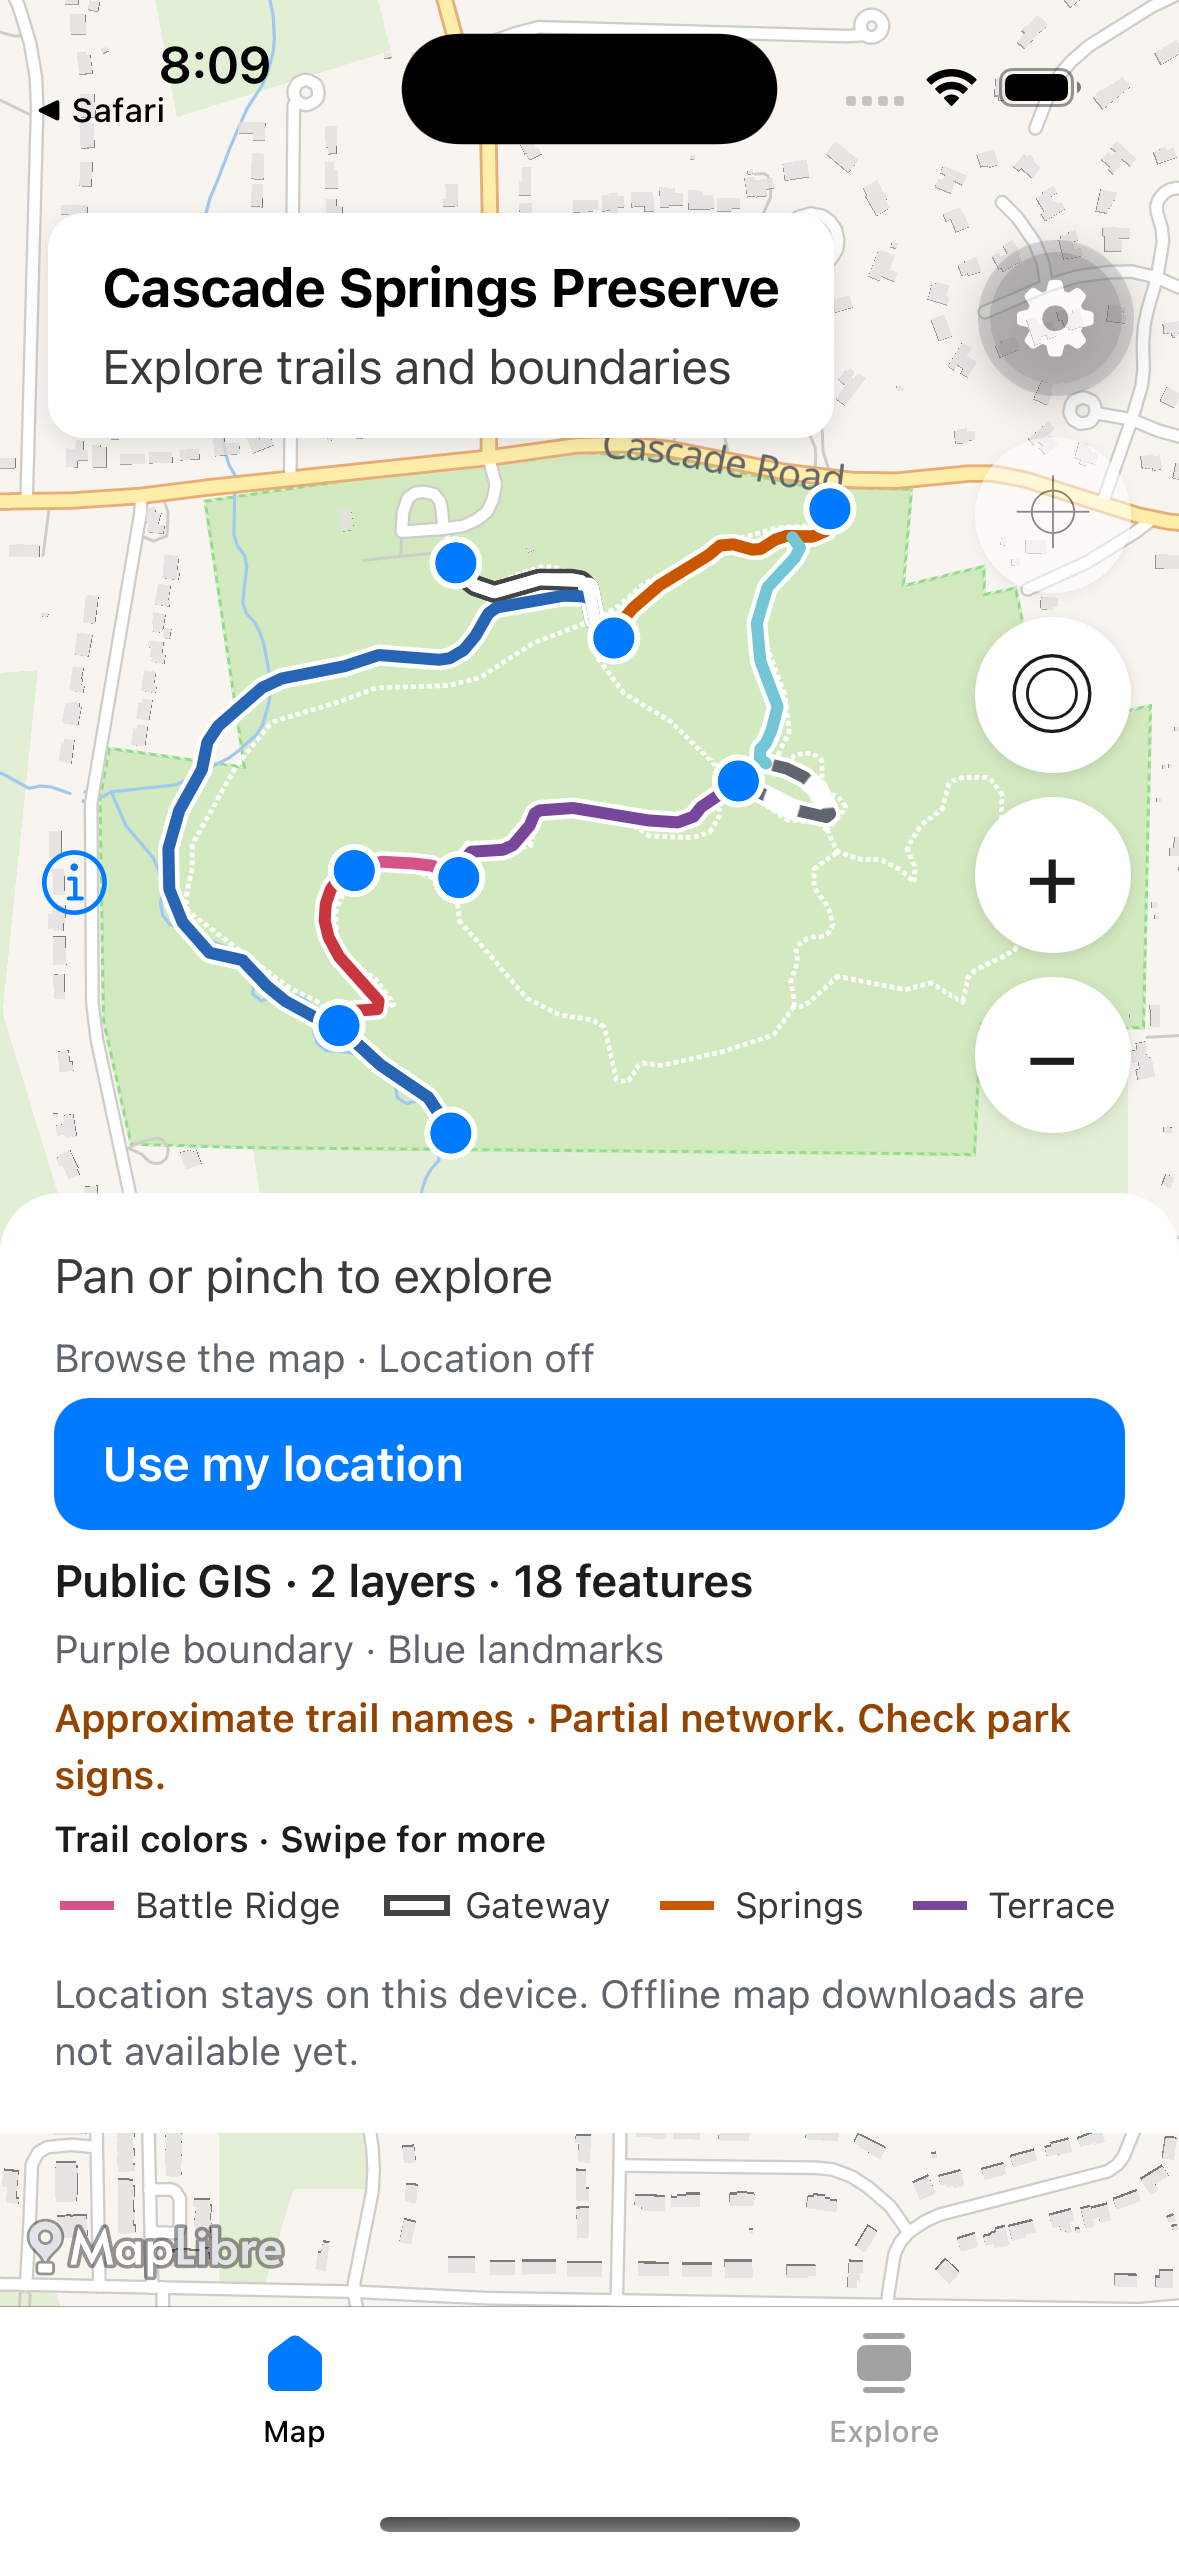
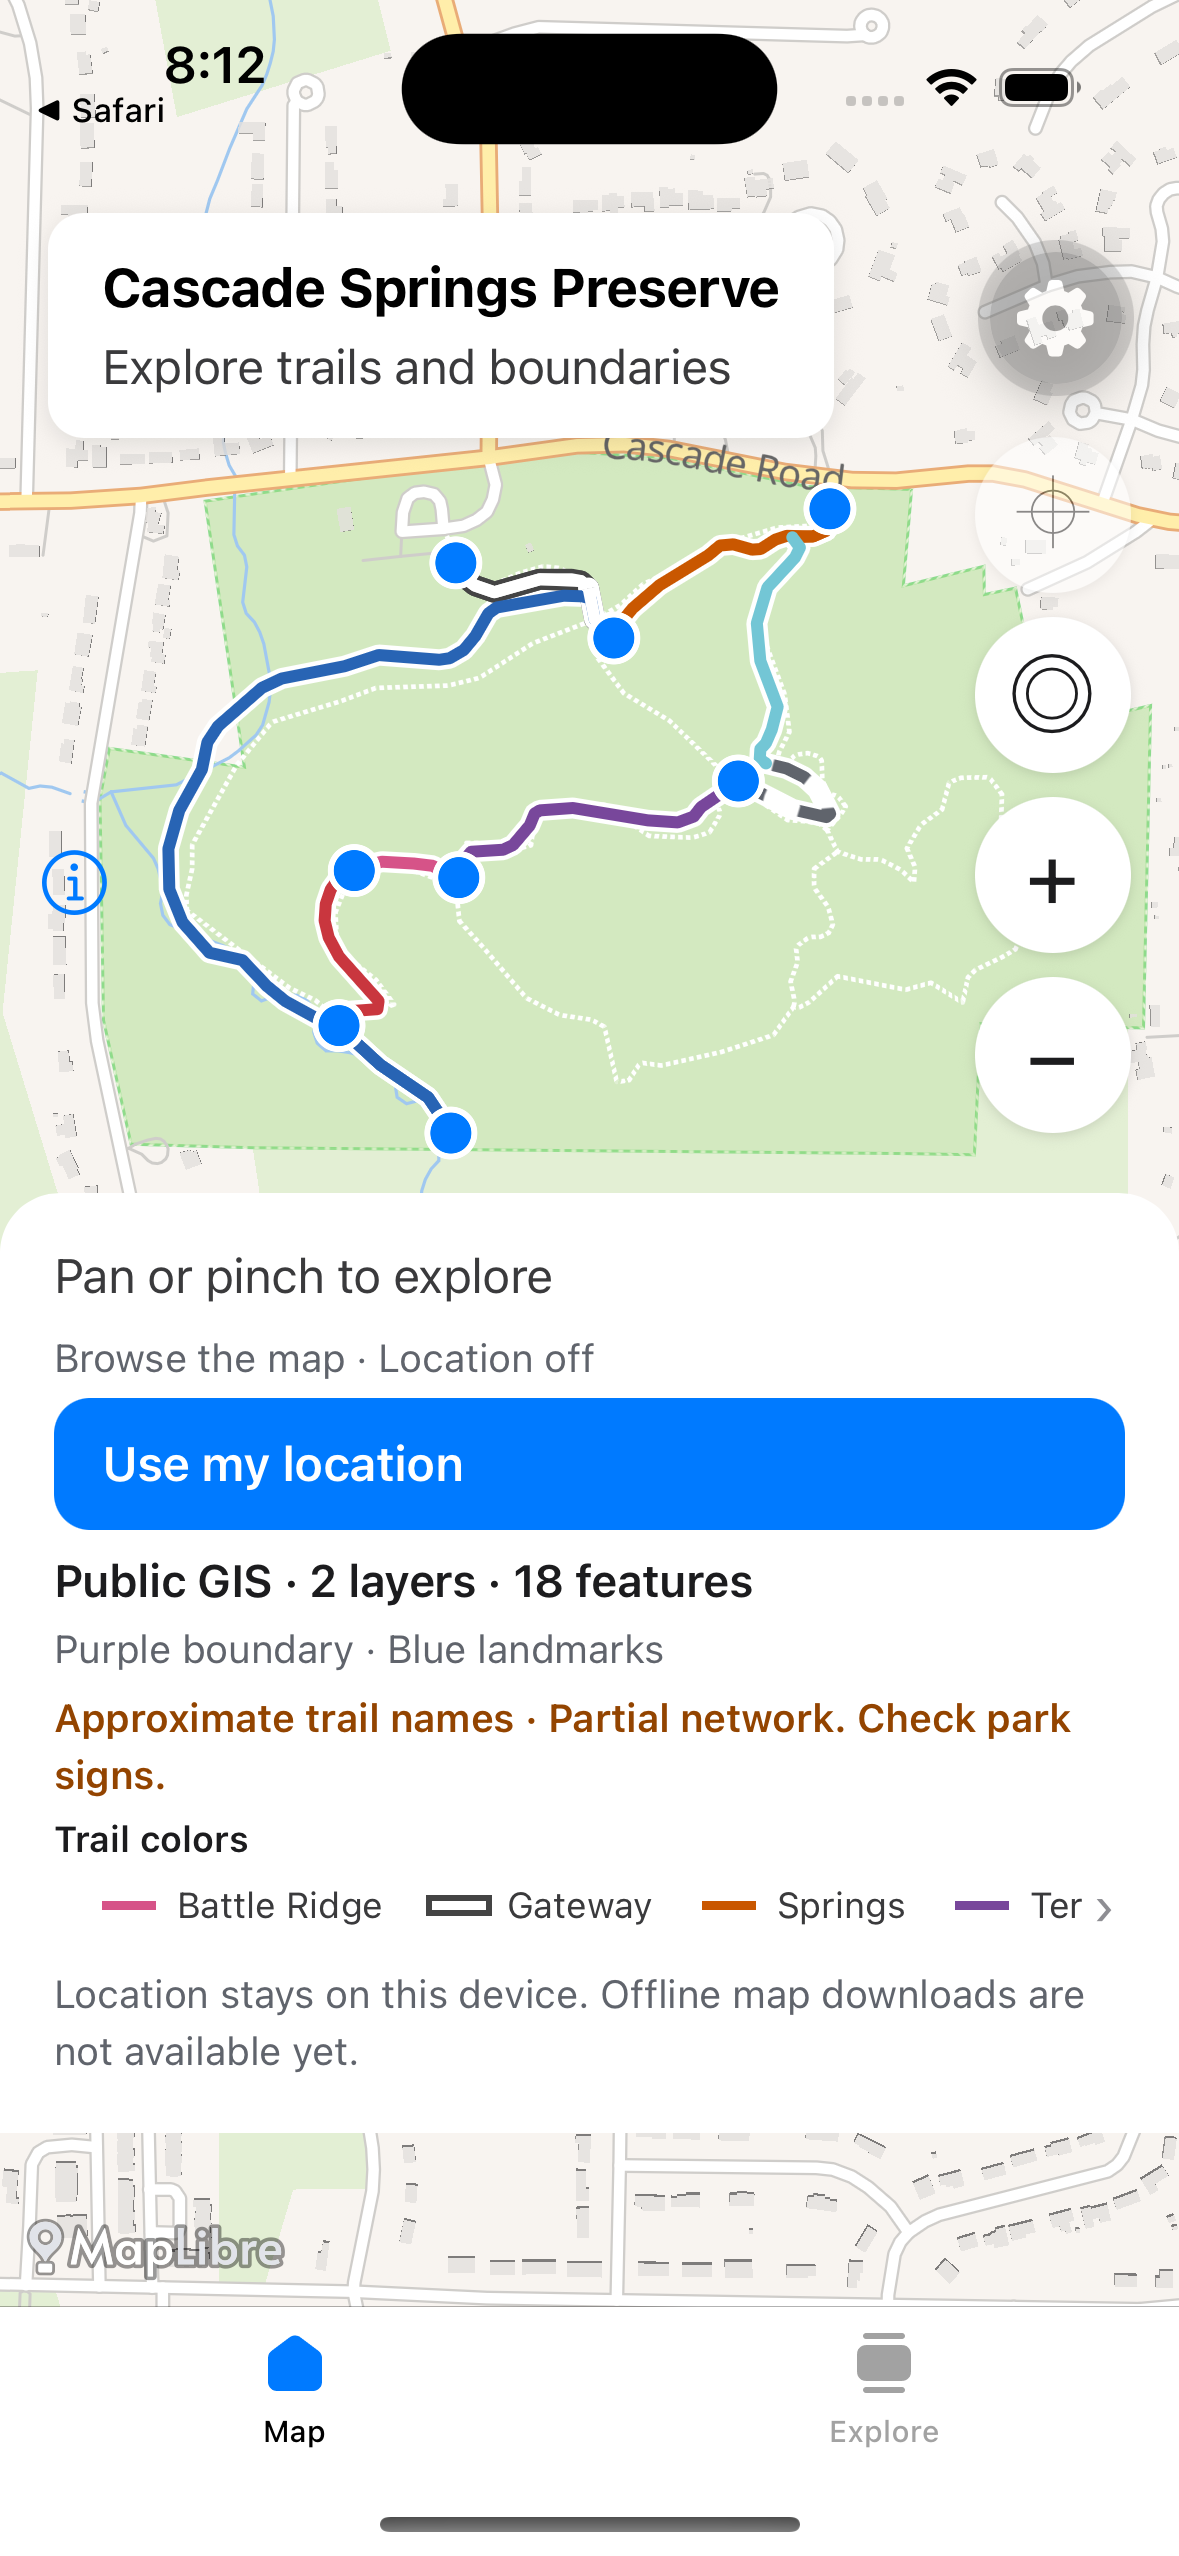
Use subtle edge cues for the scrolling trail key

diff --git a/mobile/src/components/trail-legend.tsx b/mobile/src/components/trail-legend.tsx
@@ -1,41 +1,75 @@
+import { useState } from 'react';
 import { ScrollView, StyleSheet, Text, View } from 'react-native';
 
 import type { TrailLegendEntry } from '@/data/trail-presentation';
 
 export function TrailLegend({ entries }: { entries: TrailLegendEntry[] }) {
+  const [scroll, setScroll] = useState({ width: 0, content: 0, offset: 0 });
+  const hasPrevious = scroll.offset > 1;
+  const hasMore = scroll.content - scroll.width - scroll.offset > 1;
   if (entries.length === 0) return null;
   return (
     <View style={styles.container}>
-      <Text style={styles.title}>Trail colors · Swipe for more</Text>
-      <ScrollView
-        horizontal
-        style={styles.list}
-        contentContainerStyle={styles.rows}
-        showsHorizontalScrollIndicator={false}
-      >
-        {entries.map((entry) => (
-          <View
-            key={entry.id}
-            accessible
-            accessibilityLabel={`${entry.name}: ${entry.colorName}`}
-            style={styles.row}
-          >
+      <Text style={styles.title}>Trail colors</Text>
+      <View style={styles.strip}>
+        <ScrollView
+          horizontal
+          testID="trail-color-strip"
+          accessibilityHint="Scroll horizontally for more trail colors"
+          style={styles.list}
+          contentContainerStyle={styles.rows}
+          showsHorizontalScrollIndicator={false}
+          onLayout={(event) => {
+            const width = event.nativeEvent.layout.width;
+            setScroll((value) => ({ ...value, width }));
+          }}
+          onContentSizeChange={(content) => setScroll((value) => ({ ...value, content }))}
+          onScroll={(event) => {
+            const offset = event.nativeEvent.contentOffset.x;
+            setScroll((value) => ({ ...value, offset }));
+          }}
+          scrollEventThrottle={32}
+        >
+          {entries.map((entry) => (
             <View
-              accessibilityElementsHidden
-              importantForAccessibility="no-hide-descendants"
-              style={[styles.casing, { backgroundColor: entry.casing }]}
+              key={entry.id}
+              accessible
+              accessibilityLabel={`${entry.name}: ${entry.colorName}`}
+              style={styles.row}
             >
               <View
-                style={[
-                  styles.swatch,
-                  { borderColor: entry.color, borderStyle: entry.dashed ? 'dashed' : 'solid' },
-                ]}
-              />
+                accessibilityElementsHidden
+                importantForAccessibility="no-hide-descendants"
+                style={[styles.casing, { backgroundColor: entry.casing }]}
+              >
+                <View
+                  style={[
+                    styles.swatch,
+                    { borderColor: entry.color, borderStyle: entry.dashed ? 'dashed' : 'solid' },
+                  ]}
+                />
+              </View>
+              <Text style={styles.label}>{entry.name.replace(/ Trails?$/, '')}</Text>
             </View>
-            <Text style={styles.label}>{entry.name.replace(/ Trails?$/, '')}</Text>
-          </View>
-        ))}
-      </ScrollView>
+          ))}
+        </ScrollView>
+        {hasPrevious && <ScrollCue direction="left" />}
+        {hasMore && <ScrollCue direction="right" />}
+      </View>
+    </View>
+  );
+}
+
+function ScrollCue({ direction }: { direction: 'left' | 'right' }) {
+  return (
+    <View
+      testID={`trail-key-${direction}-cue`}
+      pointerEvents="none"
+      accessibilityElementsHidden
+      importantForAccessibility="no-hide-descendants"
+      style={[styles.cue, direction === 'left' ? styles.leftCue : styles.rightCue]}
+    >
+      <Text style={styles.chevron}>{direction === 'left' ? '‹' : '›'}</Text>
     </View>
   );
 }
@@ -43,10 +77,23 @@ export function TrailLegend({ entries }: { entries: TrailLegendEntry[] }) {
 const styles = StyleSheet.create({
   container: { gap: 2 },
   title: { fontSize: 12, lineHeight: 16, fontWeight: '600', color: '#1c1c1e' },
+  strip: { position: 'relative' },
   list: { flexGrow: 0 },
-  rows: { gap: 14, paddingVertical: 4 },
+  rows: { gap: 14, paddingVertical: 4, paddingHorizontal: 14 },
   row: { flexDirection: 'row', alignItems: 'center', gap: 5 },
   casing: { width: 22, height: 7, justifyContent: 'center', paddingHorizontal: 2 },
   swatch: { borderTopWidth: 3, width: 18 },
   label: { fontSize: 12, lineHeight: 16, color: '#3a3a3c' },
+  cue: {
+    position: 'absolute',
+    top: 0,
+    bottom: 0,
+    width: 14,
+    backgroundColor: '#fff',
+    justifyContent: 'center',
+    alignItems: 'center',
+  },
+  leftCue: { left: 0 },
+  rightCue: { right: 0 },
+  chevron: { fontSize: 18, lineHeight: 22, color: '#8e8e93' },
 });

diff --git a/mobile/__tests__/trail-legend.test.tsx b/mobile/__tests__/trail-legend.test.tsx
@@ -1,0 +1,54 @@
+import { fireEvent, render, screen } from '@testing-library/react-native';
+
+import { TrailLegend } from '@/components/trail-legend';
+
+test('edge cues follow overflow and scroll position without visible swipe instructions', async () => {
+  await render(
+    <TrailLegend
+      entries={[
+        {
+          id: 'gateway',
+          name: 'Gateway Trail',
+          colorName: 'White',
+          color: '#FFFFFF',
+          casing: '#444444',
+          dashed: false,
+        },
+      ]}
+    />,
+  );
+  const strip = screen.getByTestId('trail-color-strip');
+  await fireEvent(strip, 'layout', { nativeEvent: { layout: { width: 200 } } });
+  await fireEvent(strip, 'contentSizeChange', 100, 24);
+  expect(
+    screen.queryByTestId('trail-key-right-cue', { includeHiddenElements: true }),
+  ).not.toBeOnTheScreen();
+  expect(
+    screen.queryByTestId('trail-key-left-cue', { includeHiddenElements: true }),
+  ).not.toBeOnTheScreen();
+  expect(screen.getByText('Trail colors')).toBeOnTheScreen();
+  expect(screen.queryByText(/Swipe for more/)).not.toBeOnTheScreen();
+  expect(screen.getByLabelText('Gateway Trail: White')).toBeOnTheScreen();
+
+  await fireEvent(strip, 'contentSizeChange', 500, 24);
+  expect(
+    screen.getByTestId('trail-key-right-cue', { includeHiddenElements: true }),
+  ).toBeOnTheScreen();
+  expect(
+    screen.queryByTestId('trail-key-left-cue', { includeHiddenElements: true }),
+  ).not.toBeOnTheScreen();
+  await fireEvent.scroll(strip, { nativeEvent: { contentOffset: { x: 100, y: 0 } } });
+  expect(
+    screen.getByTestId('trail-key-left-cue', { includeHiddenElements: true }),
+  ).toBeOnTheScreen();
+  expect(
+    screen.getByTestId('trail-key-right-cue', { includeHiddenElements: true }),
+  ).toBeOnTheScreen();
+  await fireEvent.scroll(strip, { nativeEvent: { contentOffset: { x: 300, y: 0 } } });
+  expect(
+    screen.getByTestId('trail-key-left-cue', { includeHiddenElements: true }),
+  ).toBeOnTheScreen();
+  expect(
+    screen.queryByTestId('trail-key-right-cue', { includeHiddenElements: true }),
+  ).not.toBeOnTheScreen();
+});

diff --git a/mobile/__tests__/preserve-map.test.tsx b/mobile/__tests__/preserve-map.test.tsx
@@ -142,7 +142,7 @@ test('legend updates with loaded routes, deduplicates sections, and disappears f
       snapshot: { ...snapshot, collection: { type: 'FeatureCollection', features: [] } },
     });
     await view.rerender(<PreserveMap />);
-    expect(screen.queryByText('Trail colors · Swipe for more')).not.toBeOnTheScreen();
+    expect(screen.queryByText('Trail colors')).not.toBeOnTheScreen();
   } finally {
     gis.mockRestore();
   }

diff --git a/docs/design/ui-spec.md b/docs/design/ui-spec.md
@@ -107,6 +107,8 @@ and the approximate-name notice remain visible under the existing collision rule
 The GIS panel replaces the fixed orange-trails description with a compact,
 horizontally scrollable strip. Smaller swatches and labels omit the repeated
 “Trail” suffix; accessible names retain the full name and descriptive color.
-The “Swipe for more” hint identifies the horizontal scroll interaction. Repeated
+Small gray edge chevrons appear only in directions with more content; the cue
+disappears at each end. The scroll hint remains available to assistive technology
+without instructional text in the visible heading. Repeated
 sections share one row; missing routes are omitted. Boundary and landmark styling
 is unchanged. Figma remains the reference for the surrounding app layout.
